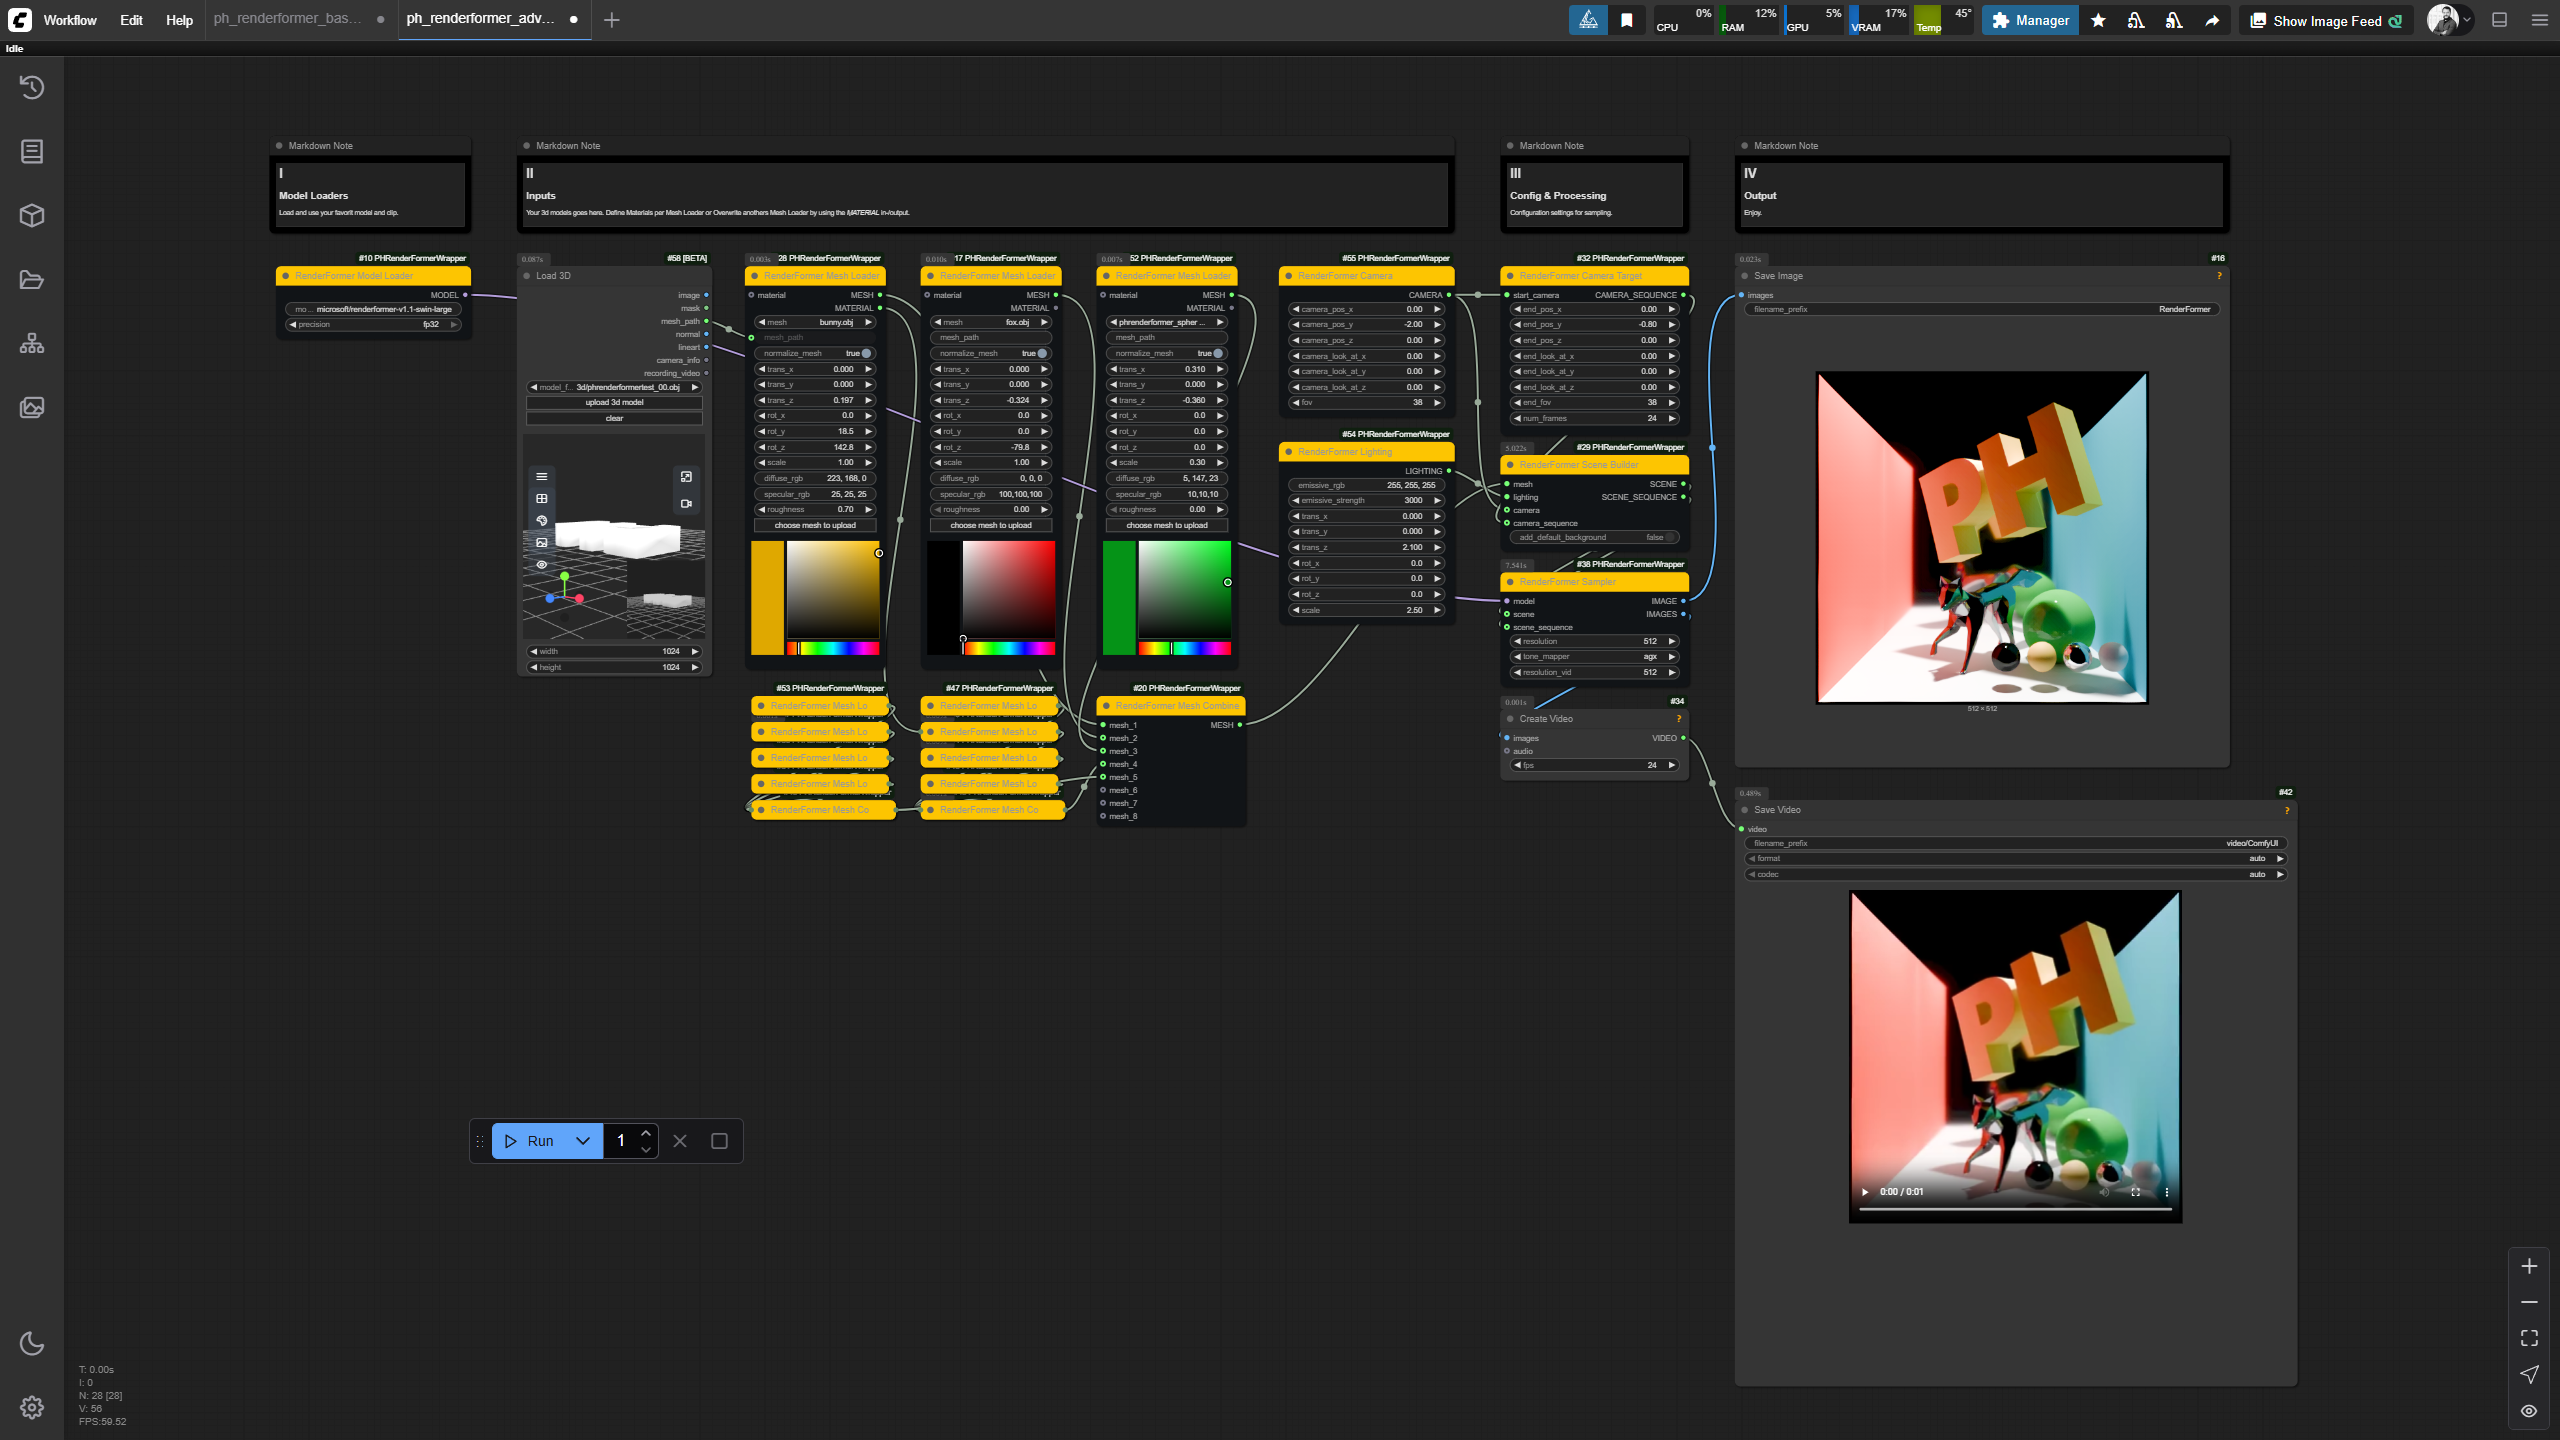
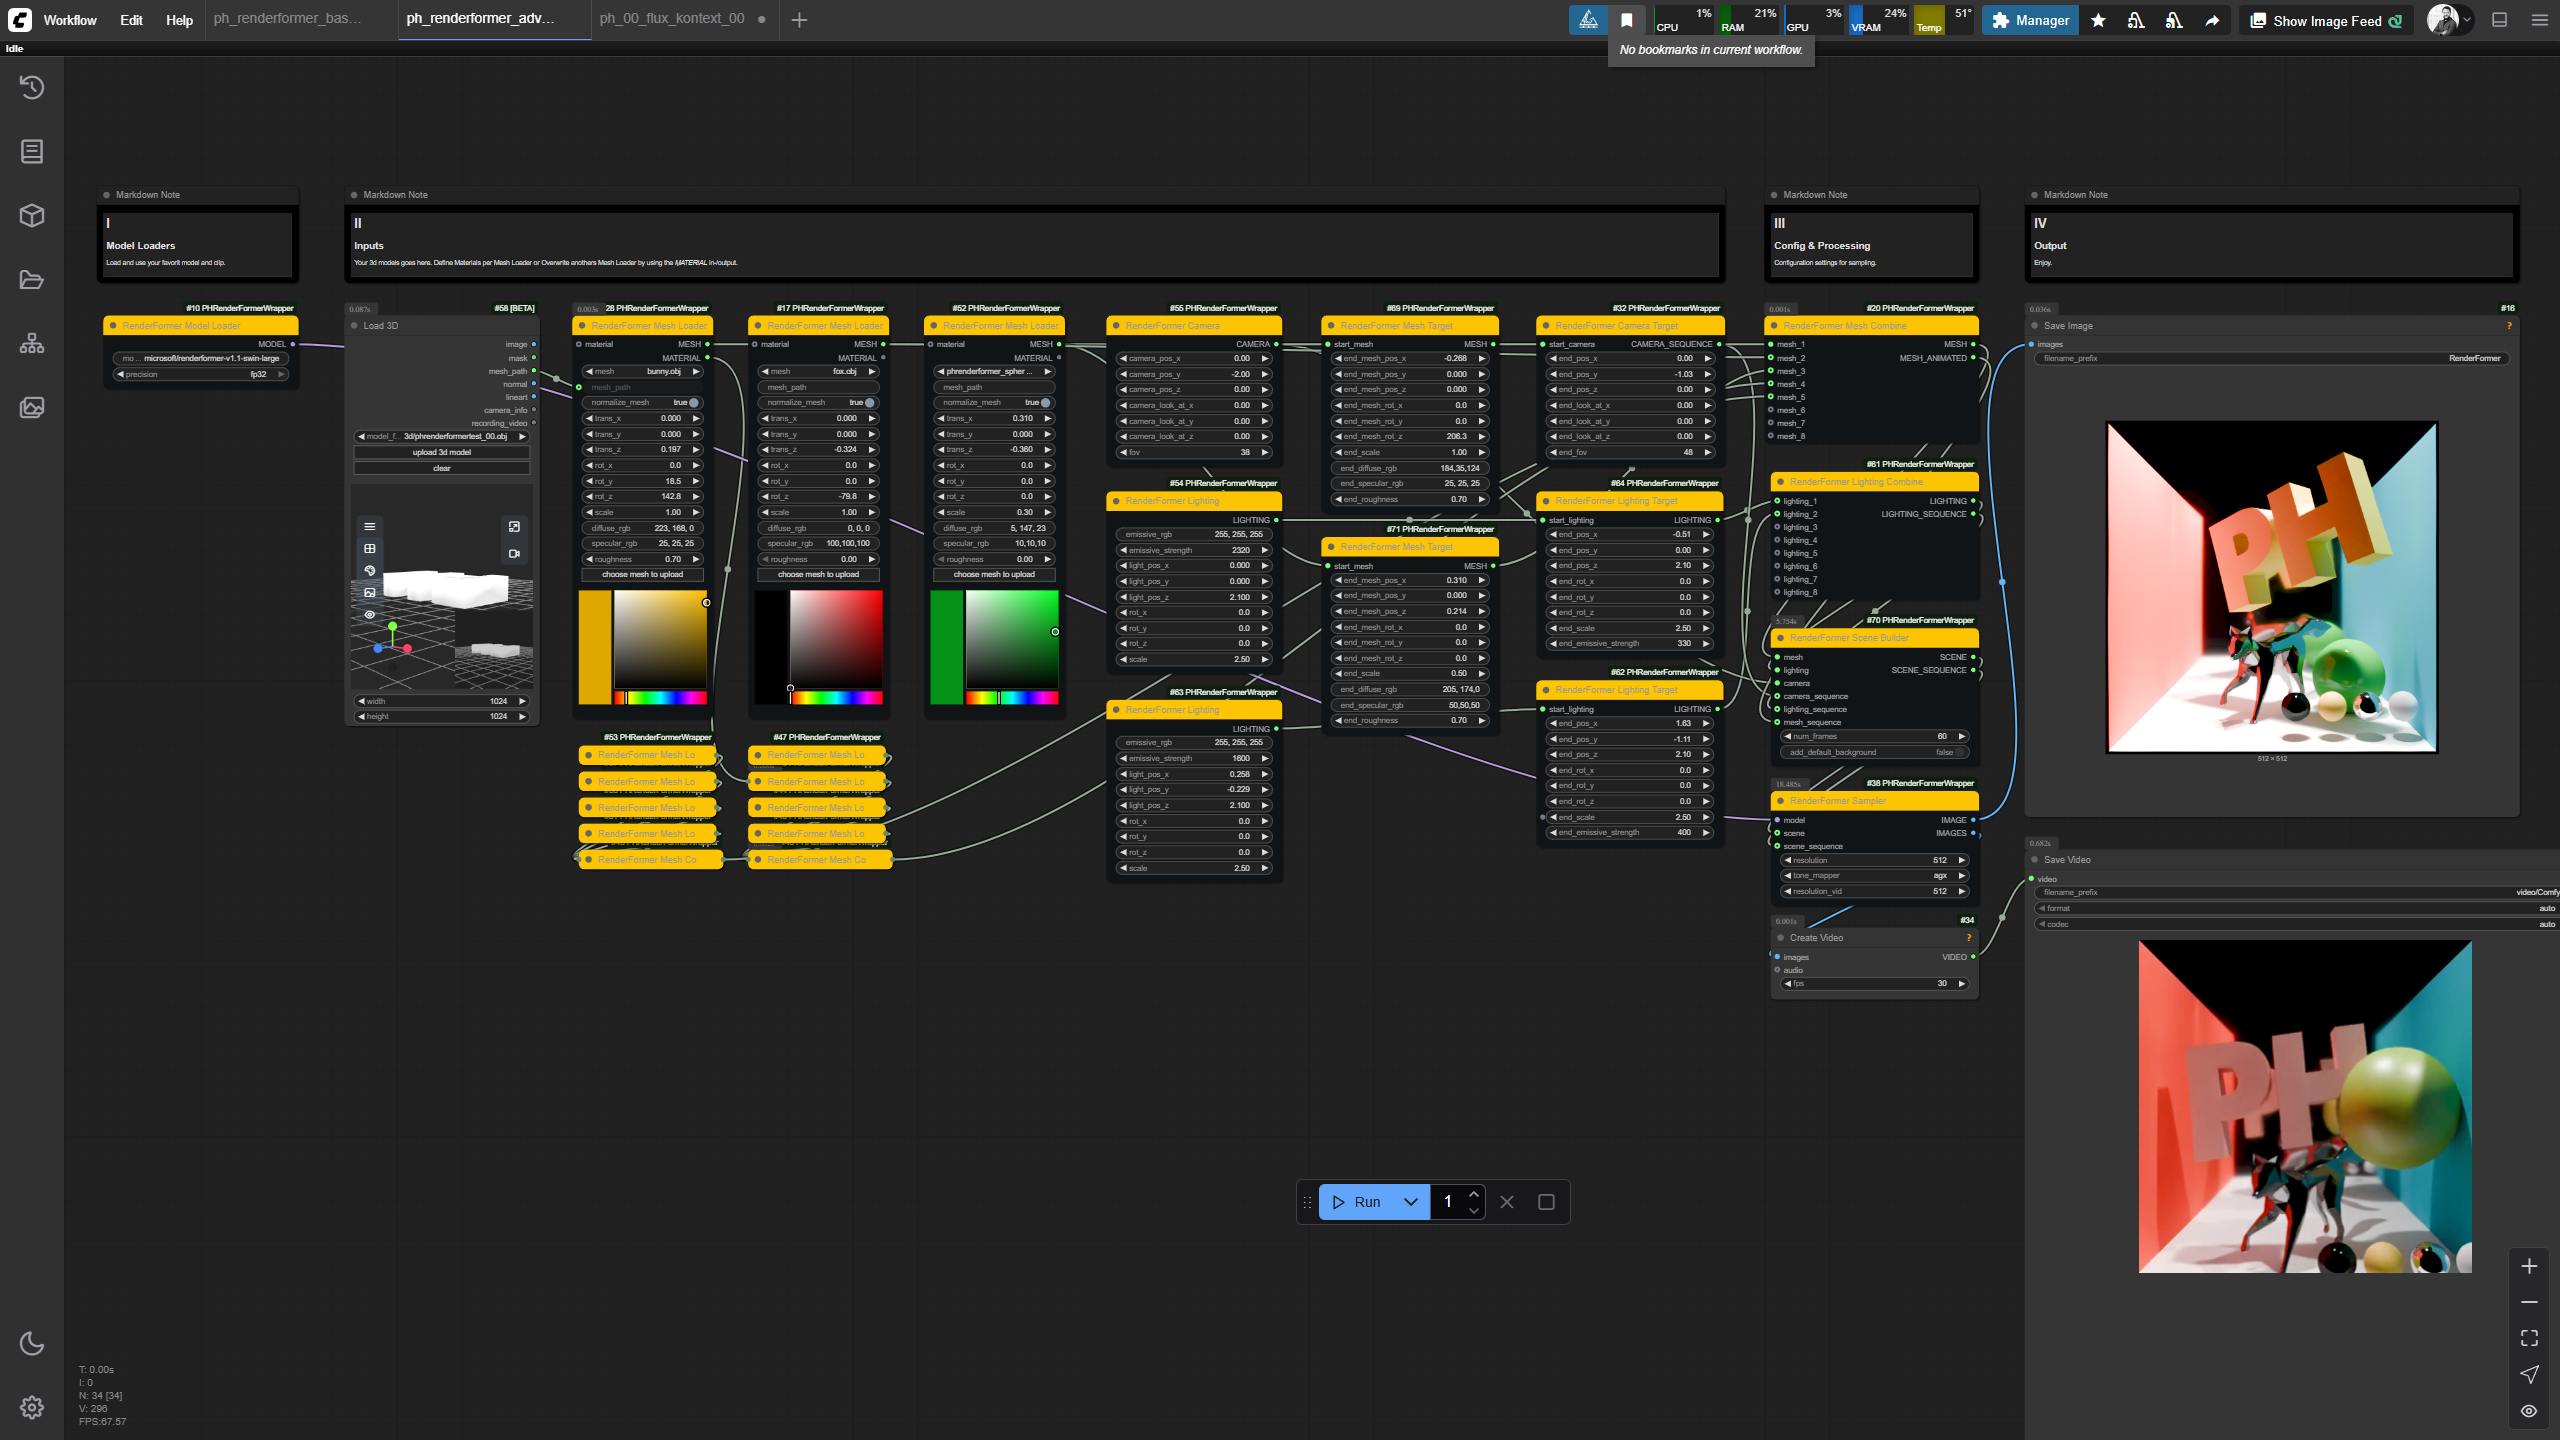
v0.4.0 public release commit

diff --git a/nodes.py b/nodes.py
@@ -571,7 +571,7 @@ class RenderFormerSceneBuilder:
                 "camera_sequence": ("CAMERA_SEQUENCE",),
                 "camera_sequence": ("CAMERA_SEQUENCE",),
                 "lighting_sequence": ("LIGHTING",),
-                "mesh_sequence": ("MESH_SEQUENCE",),
+                "mesh_sequence": ("MESH",),
                 "num_frames": ("INT", {"default": 1, "min": 1, "max": 1000}),
                 "add_default_background": ("BOOLEAN", {"default": False}),
             }
@@ -853,8 +853,8 @@ class RenderFormerMeshCombine:
             }
         }
 
-    RETURN_TYPES = ("MESH", "MESH_SEQUENCE",)
-    RETURN_NAMES = ("MESH", "MESH_SEQUENCE",)
+    RETURN_TYPES = ("MESH", "MESH",)
+    RETURN_NAMES = ("MESH", "MESH_ANIMATED",)
     FUNCTION = "combine_meshes"
     CATEGORY = "PHRenderFormer"
 
@@ -869,7 +869,7 @@ class RenderFormerMeshCombine:
             if not mesh_input:
                 continue
 
-            # Case 1: Input is an animated MESH_SEQUENCE
+            # Case 1: Input is an animated MESH object (previously MESH_SEQUENCE)
             if isinstance(mesh_input, dict) and "start_meshes" in mesh_input and "end_meshes" in mesh_input:
                 start_data = mesh_input["start_meshes"]
                 end_data = mesh_input["end_meshes"]
@@ -935,7 +935,7 @@ class RenderFormerMeshTarget:
             }
         }
 
-    RETURN_TYPES = ("MESH_SEQUENCE",)
+    RETURN_TYPES = ("MESH",)
     FUNCTION = "get_mesh_sequence"
     CATEGORY = "PHRenderFormer"
 
